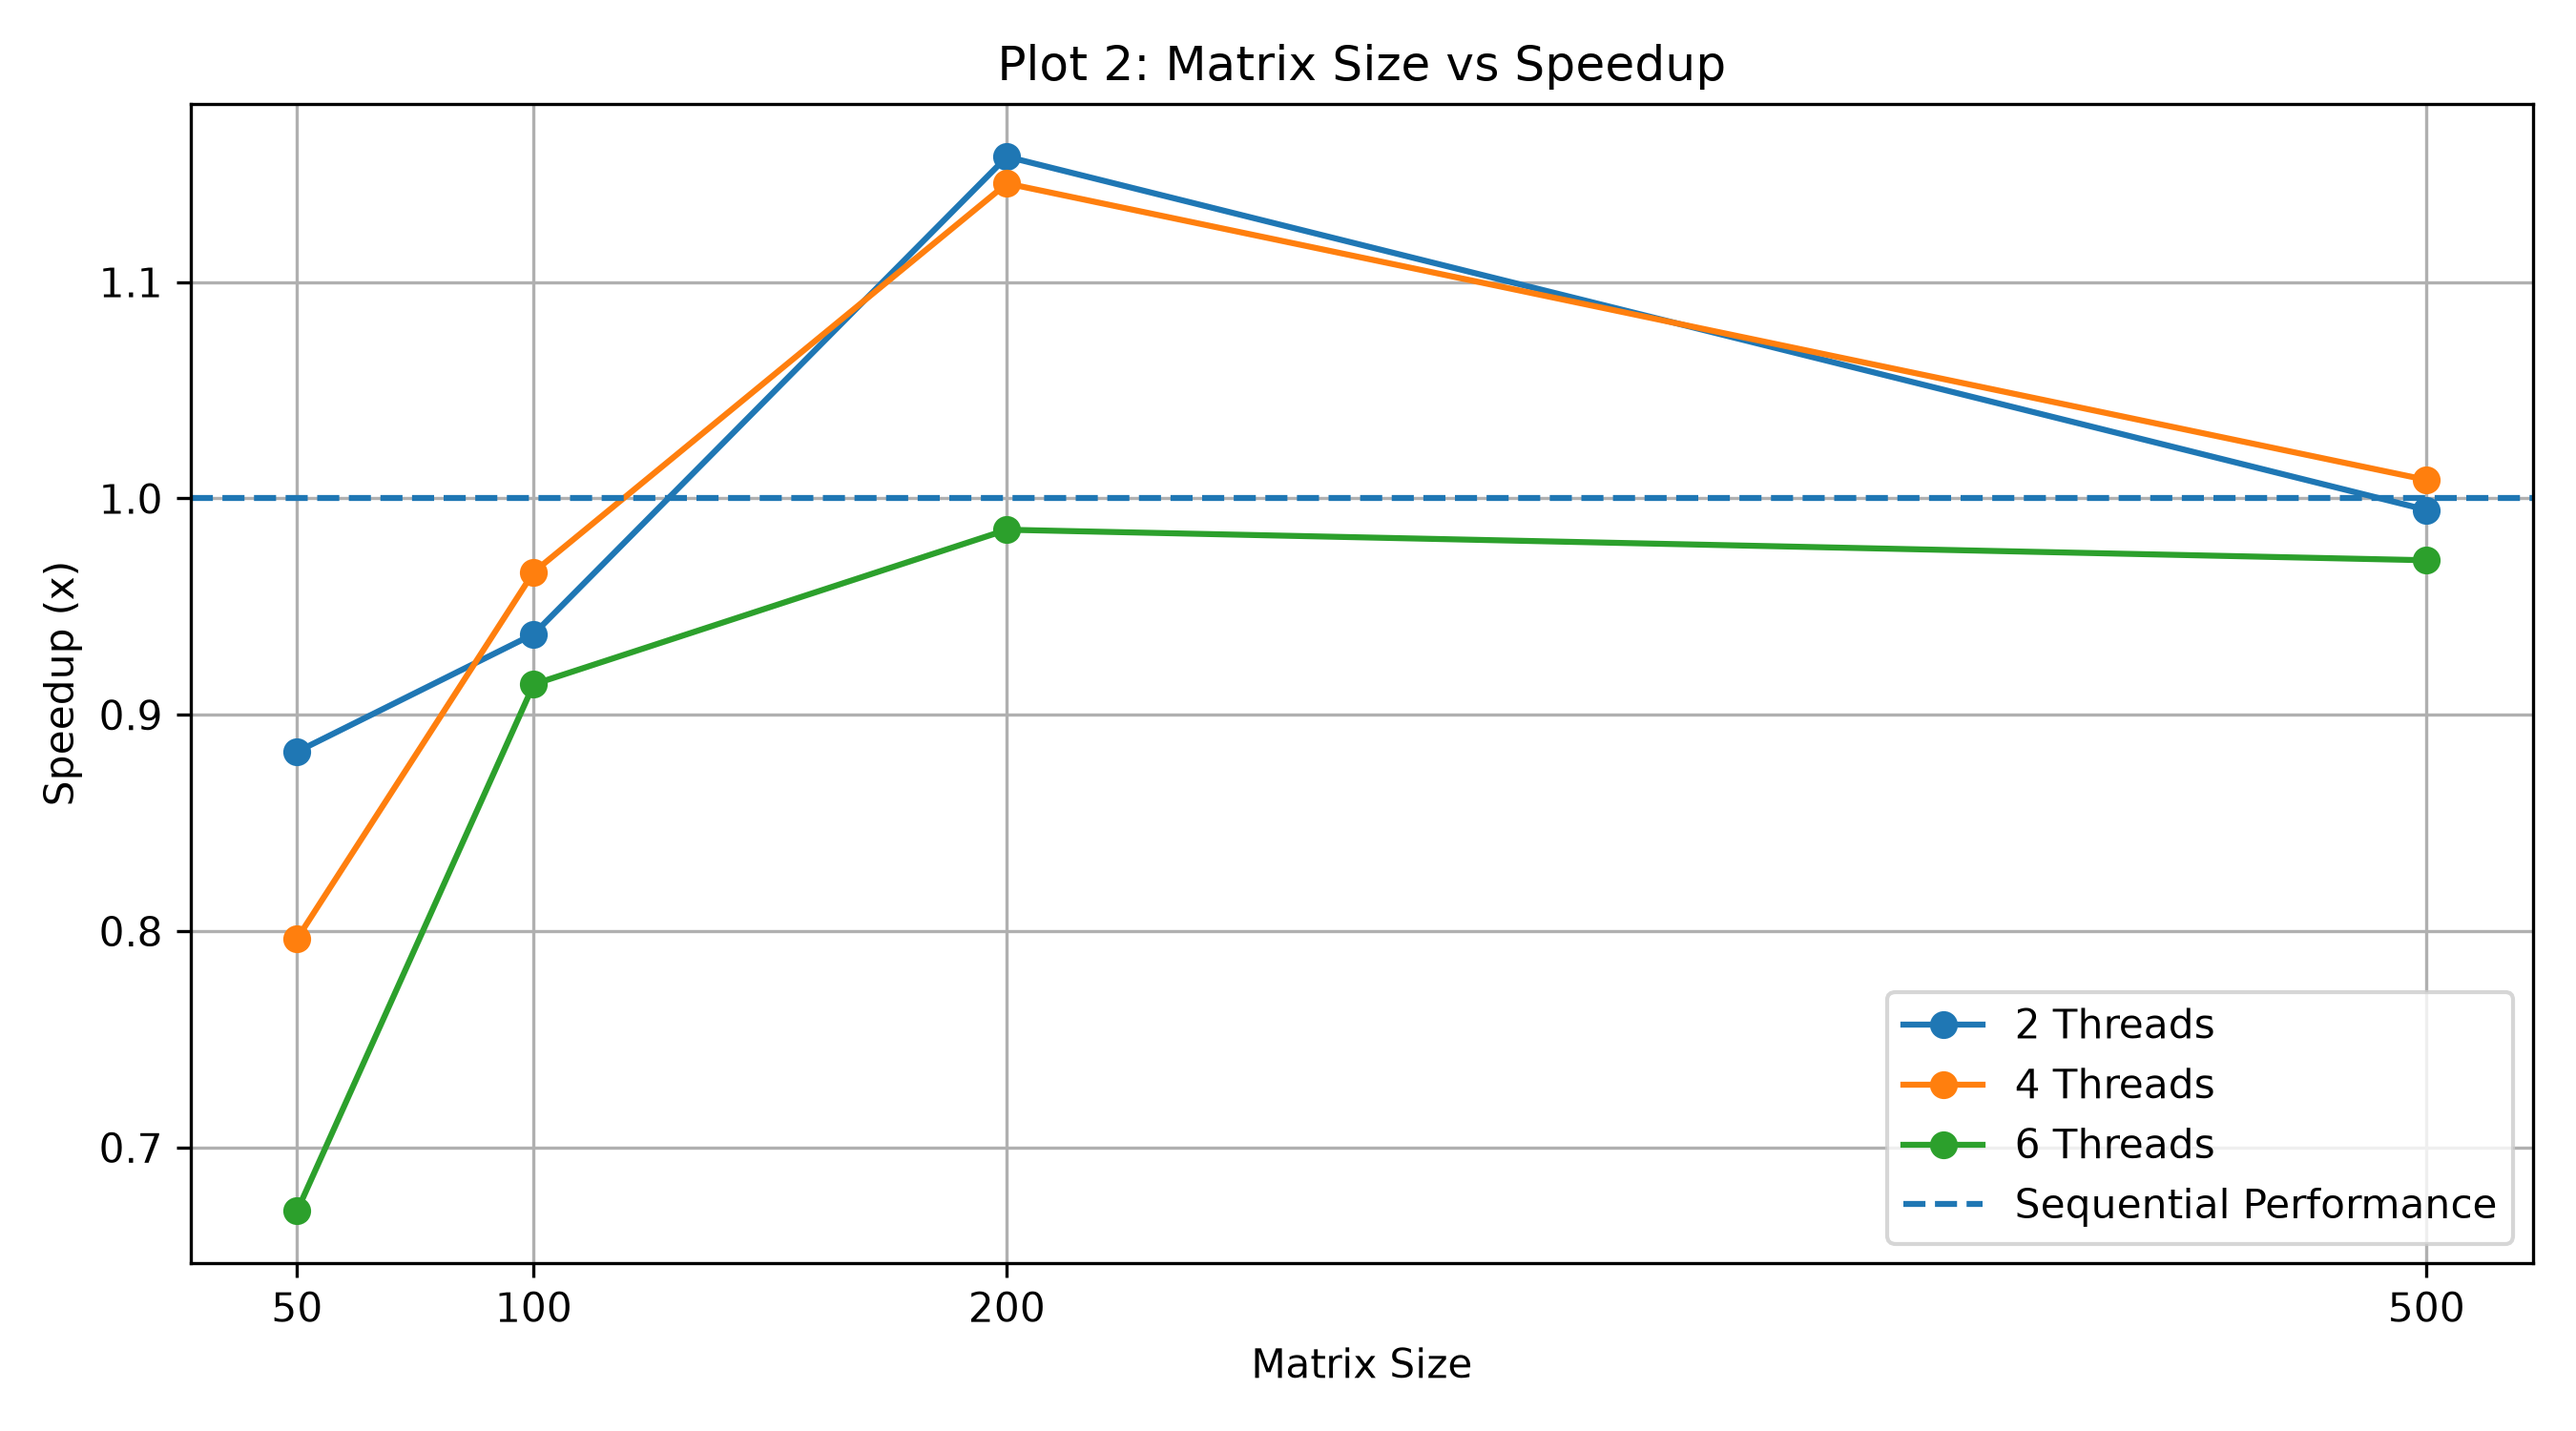
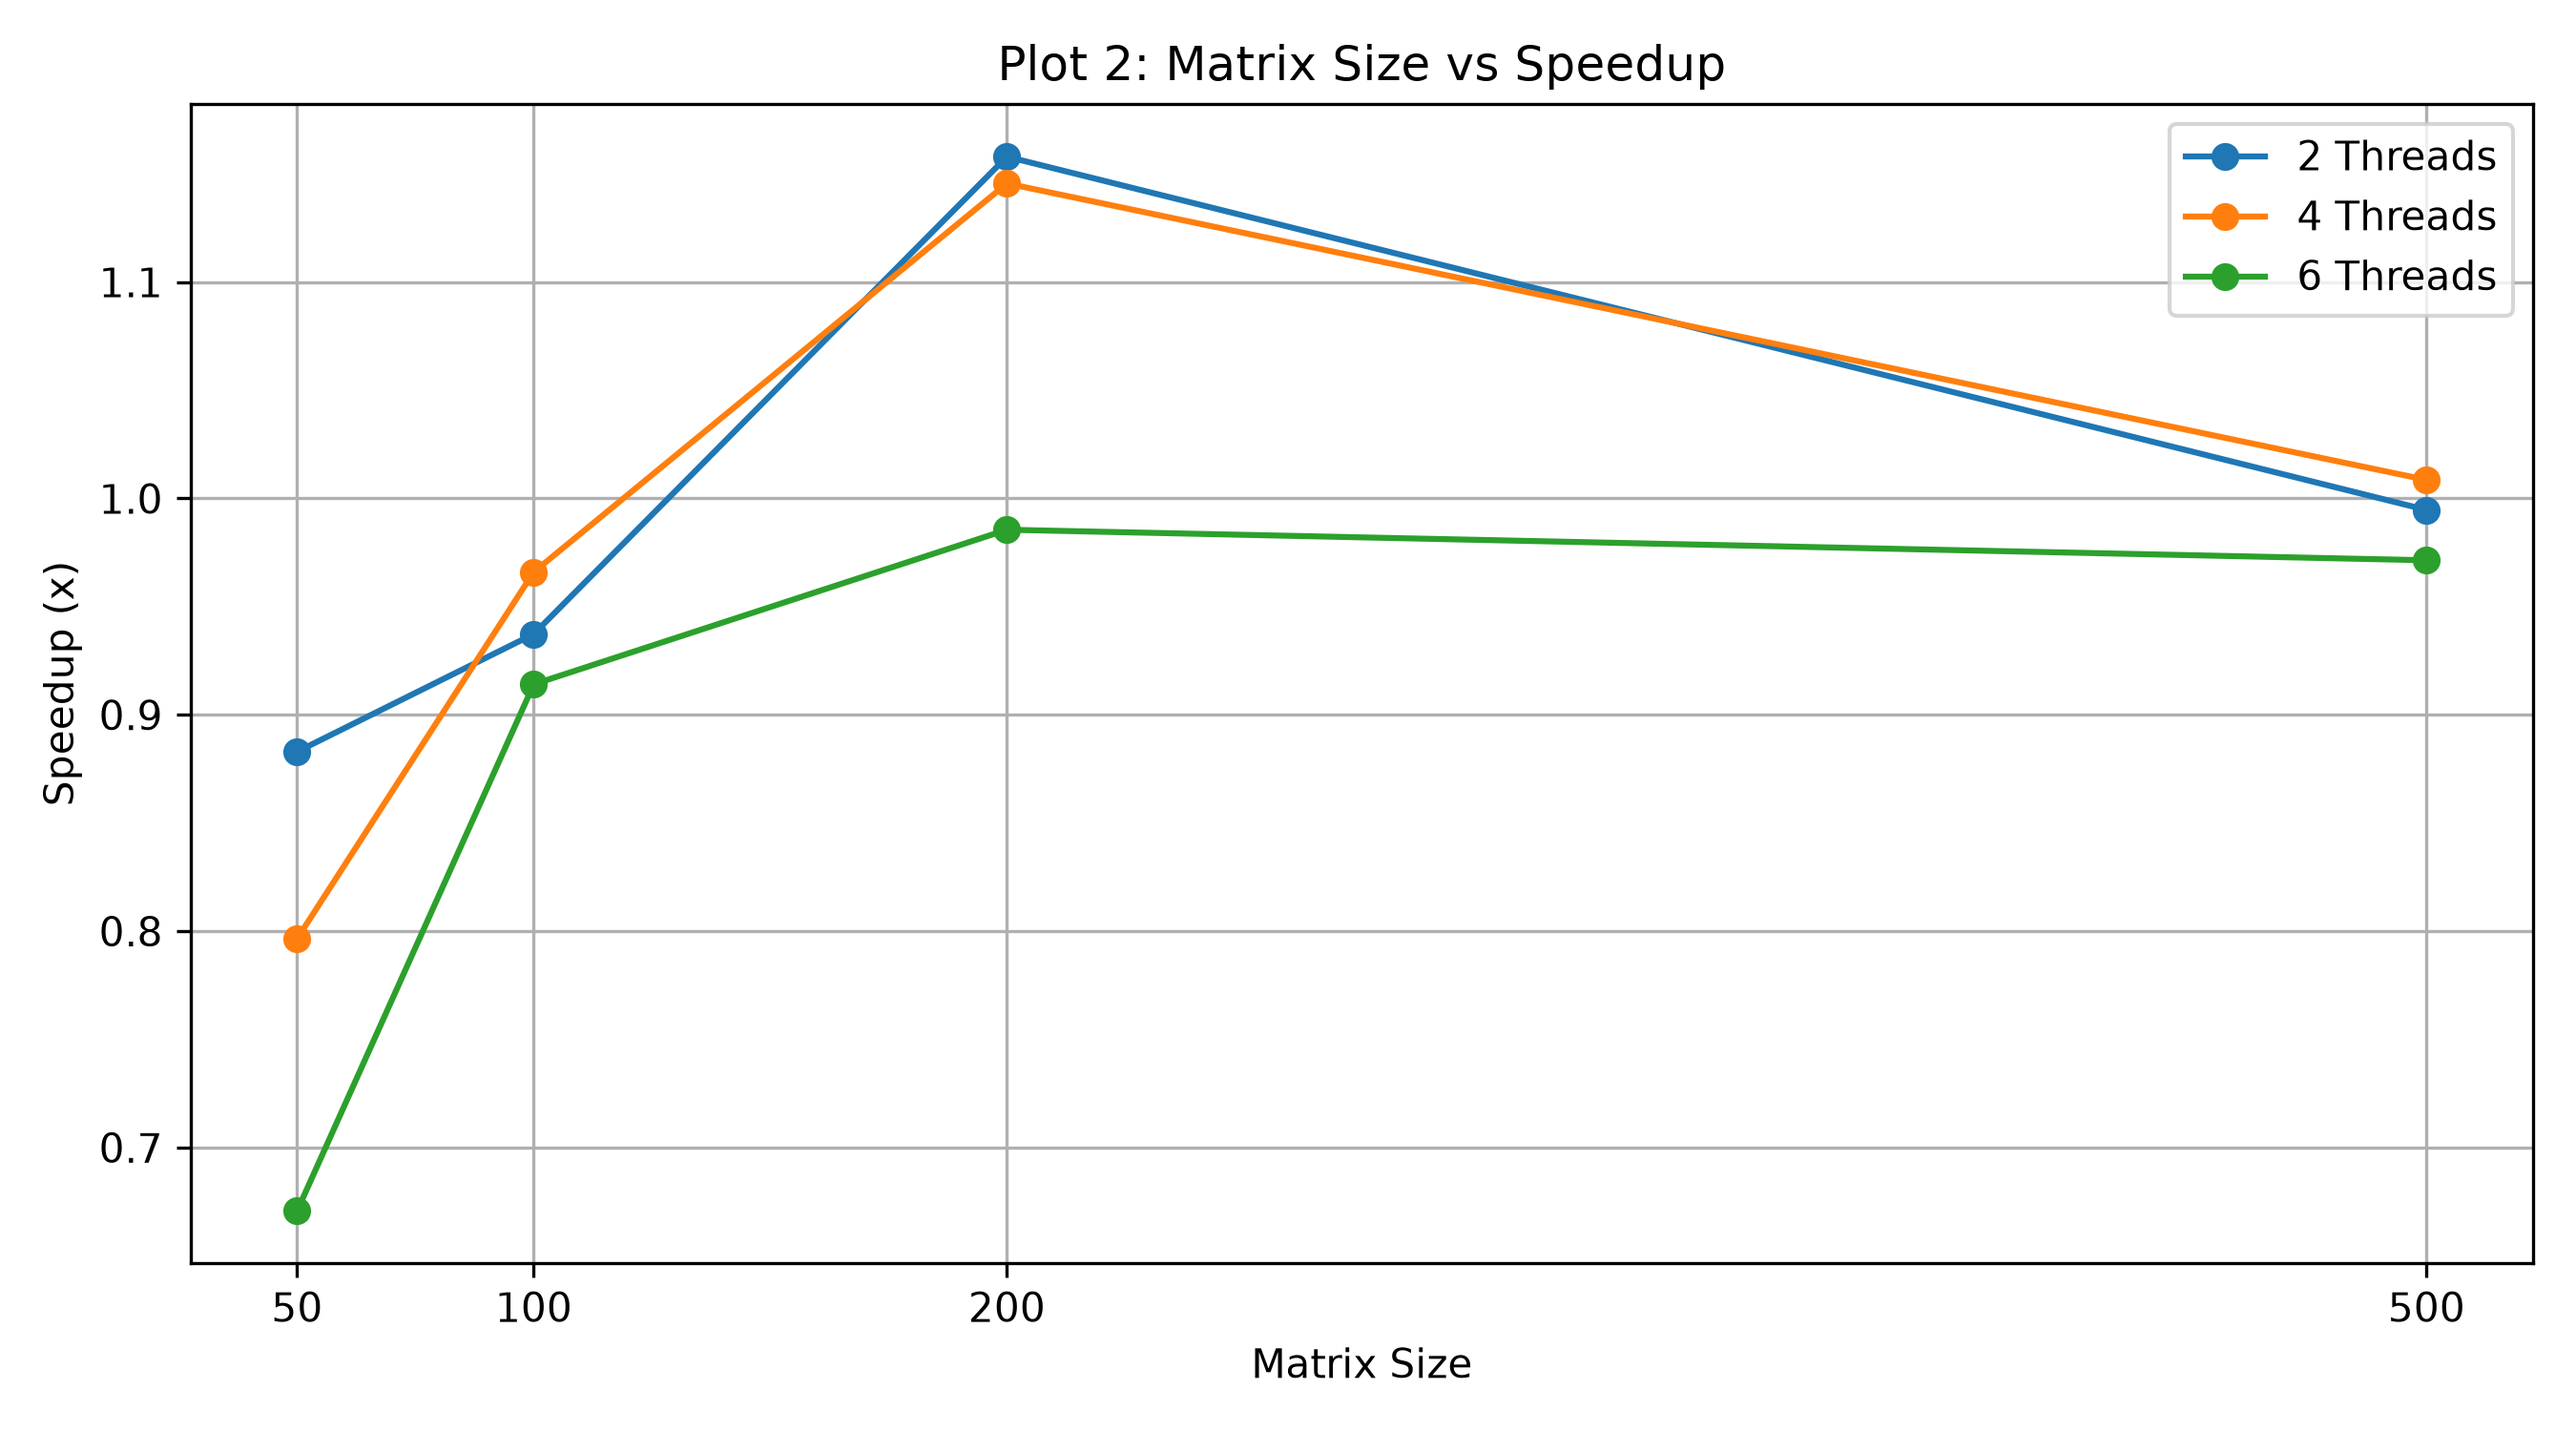
plot finalized

diff --git a/plot_efficiency.py b/plot_efficiency.py
@@ -39,9 +39,9 @@ for thread in threads:
     )
 
 # Chart title and labels
-plt.title("Plot 3: Matrix Size vs Parallel Efficiency")
+plt.title("Plot 3: Matrix Size vs Efficiency")
 plt.xlabel("Matrix Size")
-plt.ylabel("Parallel Efficiency (%)")
+plt.ylabel("Efficiency (%)")
 
 plt.xticks([50, 100, 200, 500])
 

diff --git a/plot_speedup.py b/plot_speedup.py
@@ -38,13 +38,6 @@ for thread in threads:
         label=f"{thread} Threads"
     )
 
-# Reference line: Speedup = 1
-plt.axhline(
-    y=1,
-    linestyle="--",
-    label="Sequential Performance"
-)
-
 # Chart title and labels
 plt.title("Plot 2: Matrix Size vs Speedup")
 plt.xlabel("Matrix Size")
